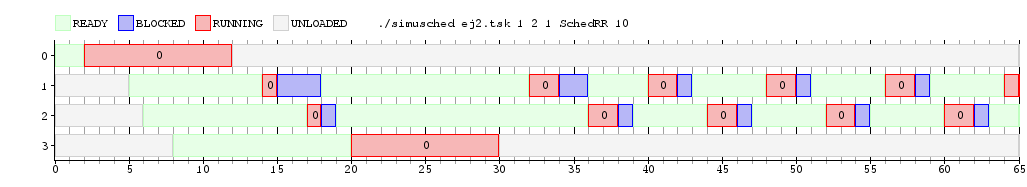
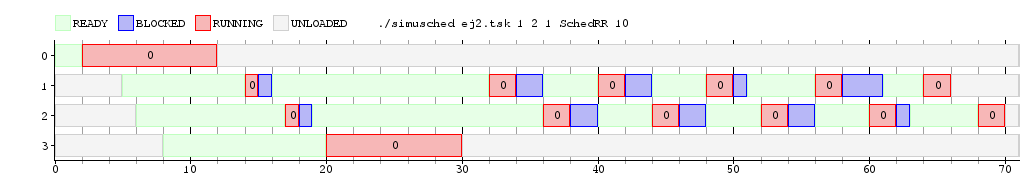
terminado ej4 y ej5

diff --git a/simusched/sched_rsjf.cpp b/simusched/sched_rsjf.cpp
@@ -12,7 +12,14 @@ SchedRSJF::SchedRSJF(vector<int> argn) {
 
 	for (int i=0; i < argn[0]; i++){ //En argn[0] está la cantidad de cores.
 		def_quantum.push_back(argn[i+1]);
-		cpu_quantum.push_back(0); //Ponemos en 0 los quantum consumidos por cada cpu.
+	}
+
+	for (int i=argn[0]+1; i < argn.size(); i++){ 
+		info_pid tupla; 
+		tupla.pid = i - argn[0]; 
+		tupla.tiempo = argn[i];
+		cola.push(tupla);
+		cpu_quantum.push_back(0); //Ponemos en 0 los quantum consumidos por cada pid.
 	}
 }
 
@@ -21,11 +28,17 @@ SchedRSJF::~SchedRSJF() {
 }
 
 void SchedRSJF::load(int pid) {
-	cola.push(pid); //Encolamos la tarea nueva que llega en la cola global de procesos ready.
+	info_pid tupla; 
+	tupla.pid = pid; 
+	tupla.tiempo = buscarTiempo(cola, pid);
+	cola.push(tupla); 
 }
 
 void SchedRSJF::unblock(int pid) {
-	cola.push(pid); //Encolamos la tarea nueva que llega en la cola global de procesos ready.
+	info_pid tupla; 
+	tupla.pid = pid; 
+	tupla.tiempo = buscarTiempo(cola, pid);
+	cola.push(tupla); 
 }
 
 int SchedRSJF::tick(int core, const enum Motivo m) {
@@ -34,10 +47,13 @@ int SchedRSJF::tick(int core, const enum Motivo m) {
 			return next(core);
 		}else{
 			if(cpu_quantum[core] >= def_quantum[core]){ //Vemos si el proceso ya consumió su quantum.
-				cola.push(current_pid(core)); //Ponemos el proceso actual en la cola
+				info_pid tupla; 
+				tupla.pid = current_pid(core); 
+				tupla.tiempo = buscarTiempo(cola, current_pid(core));
+				cola.push(tupla); //Ponemos el proceso actual en la cola
 				return next(core); //Llamamos al proceso siguiente. PUEDE PASAR QUE SEA EL PROCESO CON MENOR QUANTUM Y SE EJECUTE DEVUELTA.
 			}else{  //Si todavía no consumió su quantum sigue el mismo proceso.
-				cpu_quantum[core]++;
+				cpu_quantum[current_pid(core)]++;
 				return current_pid(core);
 			}
 		}
@@ -51,9 +67,20 @@ int SchedRSJF::next (int cpu){
 		cpu_quantum[cpu] = 0; //Ponemos en cero el quantum consumido.
 		return IDLE_TASK; //No hay procesos en la cola global.
 	}else{
-		int sig = cola.top(); //Tomamos el primer proceso de la cola.
+		int sig = cola.top().pid; //Tomamos el primer proceso de la cola.
 		cola.pop(); //Sacamos al primer proceso de la cola.
 		cpu_quantum[cpu] = 1; //Ponemos en uno el quantum consumido por ese proceso para esa cpu sumando el tick que está por realizar.
 		return sig;
 	}
+}
+
+int SchedRSJF::buscarTiempo(cola_prioridad_rsfj cola, int pid){
+	
+	while(!cola.empty()){
+		if(cola.top().pid == pid){
+			return cola.top().tiempo;
+		}
+		cola.pop();
+	}
+	return 0;
 }

diff --git a/simusched/sched_sjf.cpp b/simusched/sched_sjf.cpp
@@ -6,8 +6,16 @@
 using namespace std;
 
 SchedSJF::SchedSJF(vector<int> argn) {
-        // Recibe la cantidad de cores 
-/* llenar */
+    // Recibe la cantidad de cores y quantum de cada proceso
+	//vector<int> pid_quantum(argn.size() - 1);
+
+	for (int i=1; i < argn.size(); i++){ 
+		info_pid tupla; 
+		tupla.pid = i-1; 
+		tupla.tiempo = argn[i];
+		cola.push(tupla);
+		pid_quantum.push_back(argn[i]);
+	}
 }
 
 SchedSJF::~SchedSJF() {
@@ -15,11 +23,17 @@ SchedSJF::~SchedSJF() {
 }
 
 void SchedSJF::load(int pid) {
-	cola.push(pid); //Encolamos la tarea nueva que llega en la cola global de procesos ready.
+	info_pid tupla; 
+	tupla.pid = pid; 
+	tupla.tiempo = buscarTiempo(cola, pid);
+	cola.push(tupla); 
 }
 
 void SchedSJF::unblock(int pid) {
-	cola.push(pid); //Encolamos la tarea nueva que llega en la cola global de procesos ready.
+	info_pid tupla; 
+	tupla.pid = pid; 
+	tupla.tiempo = buscarTiempo(cola, pid);
+	cola.push(tupla); 
 }
 
 int SchedSJF::tick(int cpu, const enum Motivo m) {
@@ -27,9 +41,15 @@ int SchedSJF::tick(int cpu, const enum Motivo m) {
 		if (current_pid(cpu) == IDLE_TASK && !cola.empty()) { //Si la CPU está libre se pone el próximo proceso de la cola si es que hay alguno.
 			return next(cpu);
 		}else{
-			return current_pid(cpu);
+			if(buscarTiempo(cola, current_pid(cpu)) == 0){ //Vemos si el proceso ya consumió su quantum.
+				return next(cpu); //Llamamos al proceso siguiente. PUEDE PASAR QUE SEA EL PROCESO CON MENOR QUANTUM Y SE EJECUTE DEVUELTA.
+			}else{  //Si todavía no consumió su quantum sigue el mismo proceso.
+				pid_quantum[current_pid(cpu)] = pid_quantum[current_pid(cpu)] - 1;
+				return current_pid(cpu);
+			}
 		}
 	}else{ //m = EXIT o m = BLOCK
+		//cola.pop();
 		return next(cpu); //Ya sea porque el proceso actual terminó o porque se bloqueó llamamos al siguiente proceso para ocupar la CPU.
 	}
 }
@@ -38,8 +58,19 @@ int SchedSJF::next (int cpu){
 	if (cola.empty()){
 		return IDLE_TASK; //No hay procesos en la cola global.
 	}else{
-		int sig = cola.top(); //Tomamos el primer proceso de la cola.
+		int sig = cola.top().pid; //Tomamos el primer proceso de la cola.
 		cola.pop(); //Sacamos al primer proceso de la cola.
 		return sig;
 	}
+}
+
+int SchedSJF::buscarTiempo(cola_prioridad_sfj cola, int pid){
+	
+	while(!cola.empty()){
+		if(cola.top().pid == pid){
+			return cola.top().tiempo;
+		}
+		cola.pop();
+	}
+	return 0;
 }

diff --git a/simusched/sched_rsjf.h b/simusched/sched_rsjf.h
@@ -10,20 +10,26 @@
 
 using namespace std;
 
+/*struct info_pid
+{
+	int pid;
+	int tiempo;
+};*/
+
 class comparacion_rsjf
 {
   bool reverse;
   public:
- 	 comparacion_rsjf(const bool& revparam=false)
-    	{reverse=revparam;}
-  bool operator() (const int& lhs, const int&rhs) const
+ 	 comparacion_rsjf(const bool& revparam=false) { reverse = revparam; }
+
+  bool operator() (const info_pid& lhs, const info_pid&rhs) const
   {
-    if (reverse) return (lhs>rhs);
-    else return (lhs<rhs);
+    if (reverse) return (lhs.tiempo > rhs.tiempo);
+    else return (lhs.tiempo < rhs.tiempo);
   }
 };
 
-typedef std::priority_queue<int,std::vector<int>,comparacion_rsjf> cola_prioridad_rsfj;
+typedef std::priority_queue<info_pid,std::vector<info_pid>,comparacion_rsjf> cola_prioridad_rsfj;
 
 class SchedRSJF : public SchedBase {
 	public:
@@ -38,7 +44,7 @@ class SchedRSJF : public SchedBase {
 		std::vector<int> cpu_quantum; //Llevar� la cuenta de el quantum consumido por el proceso que est� corriendo en esa cpu.
 		std::vector<int> def_quantum; //Se guardar� el quantum definido por quien llam� al Scheduler para cada cpu.
 		int next(int cpu); //Se encarga de seleccionar al siguiente proceso que debe ingresar a la cpu.
-	
+		int buscarTiempo(cola_prioridad_rsfj cola, int pid);
 };
 
 #endif

diff --git a/simusched/sched_sjf.h b/simusched/sched_sjf.h
@@ -10,21 +10,26 @@
 
 using namespace std;
 
+/*struct info_pid
+{
+	int pid;
+	int tiempo;
+};*/
 
 class comparacion_sjf
 {
   bool reverse;
   public:
- 	 comparacion_sjf(const bool& revparam=false)
-    	{reverse=revparam;}
-  bool operator() (const int& lhs, const int&rhs) const
+ 	 comparacion_sjf(const bool& revparam=false) { reverse = revparam; }
+
+  bool operator() (const info_pid& lhs, const info_pid&rhs) const
   {
-    if (reverse) return (lhs>rhs);
-    else return (lhs<rhs);
+    if (reverse) return (lhs.tiempo > rhs.tiempo);
+    else return (lhs.tiempo < rhs.tiempo);
   }
 };
 
-typedef std::priority_queue<int,std::vector<int>,comparacion_sjf> cola_prioridad_sfj;
+typedef std::priority_queue<info_pid,std::vector<info_pid>,comparacion_sjf> cola_prioridad_sfj;
 
 class SchedSJF : public SchedBase {
 	public:
@@ -36,7 +41,9 @@ class SchedSJF : public SchedBase {
 		virtual int tick(int cpu, const enum Motivo m);	
 	private:
 		cola_prioridad_sfj cola; //Cola global de procesos listos.
+		std::vector<int> pid_quantum;
 		int next(int cpu); //Se encarga de seleccionar al siguiente proceso que debe ingresar a la cpu.
+		int buscarTiempo(cola_prioridad_sfj cola, int pid);
 };
 
 #endif

diff --git a/simusched/tasks.cpp b/simusched/tasks.cpp
@@ -30,7 +30,7 @@ void TaskConsola(int pid, vector<int> params) { // params: ms_pid, n, bmin, bmax
         uso_IO(pid, ciclos);
         uso_CPU(pid, 1);
     }
-    exit(1);
+    //exit(1);
 }
 
 void TaskBatch(int pid, vector<int> params){ // params: totalCPU, cantBloqueos

diff --git a/simusched/basesched.h b/simusched/basesched.h
@@ -40,4 +40,11 @@ unsigned int current_time();
 template<typename T>
 SchedBase& create_sched(const std::vector<int>& argn) { return ( new T(argn) ); }
 
+struct info_pid
+{
+	int pid;
+	int tiempo;
+};
+
+
 #endif
